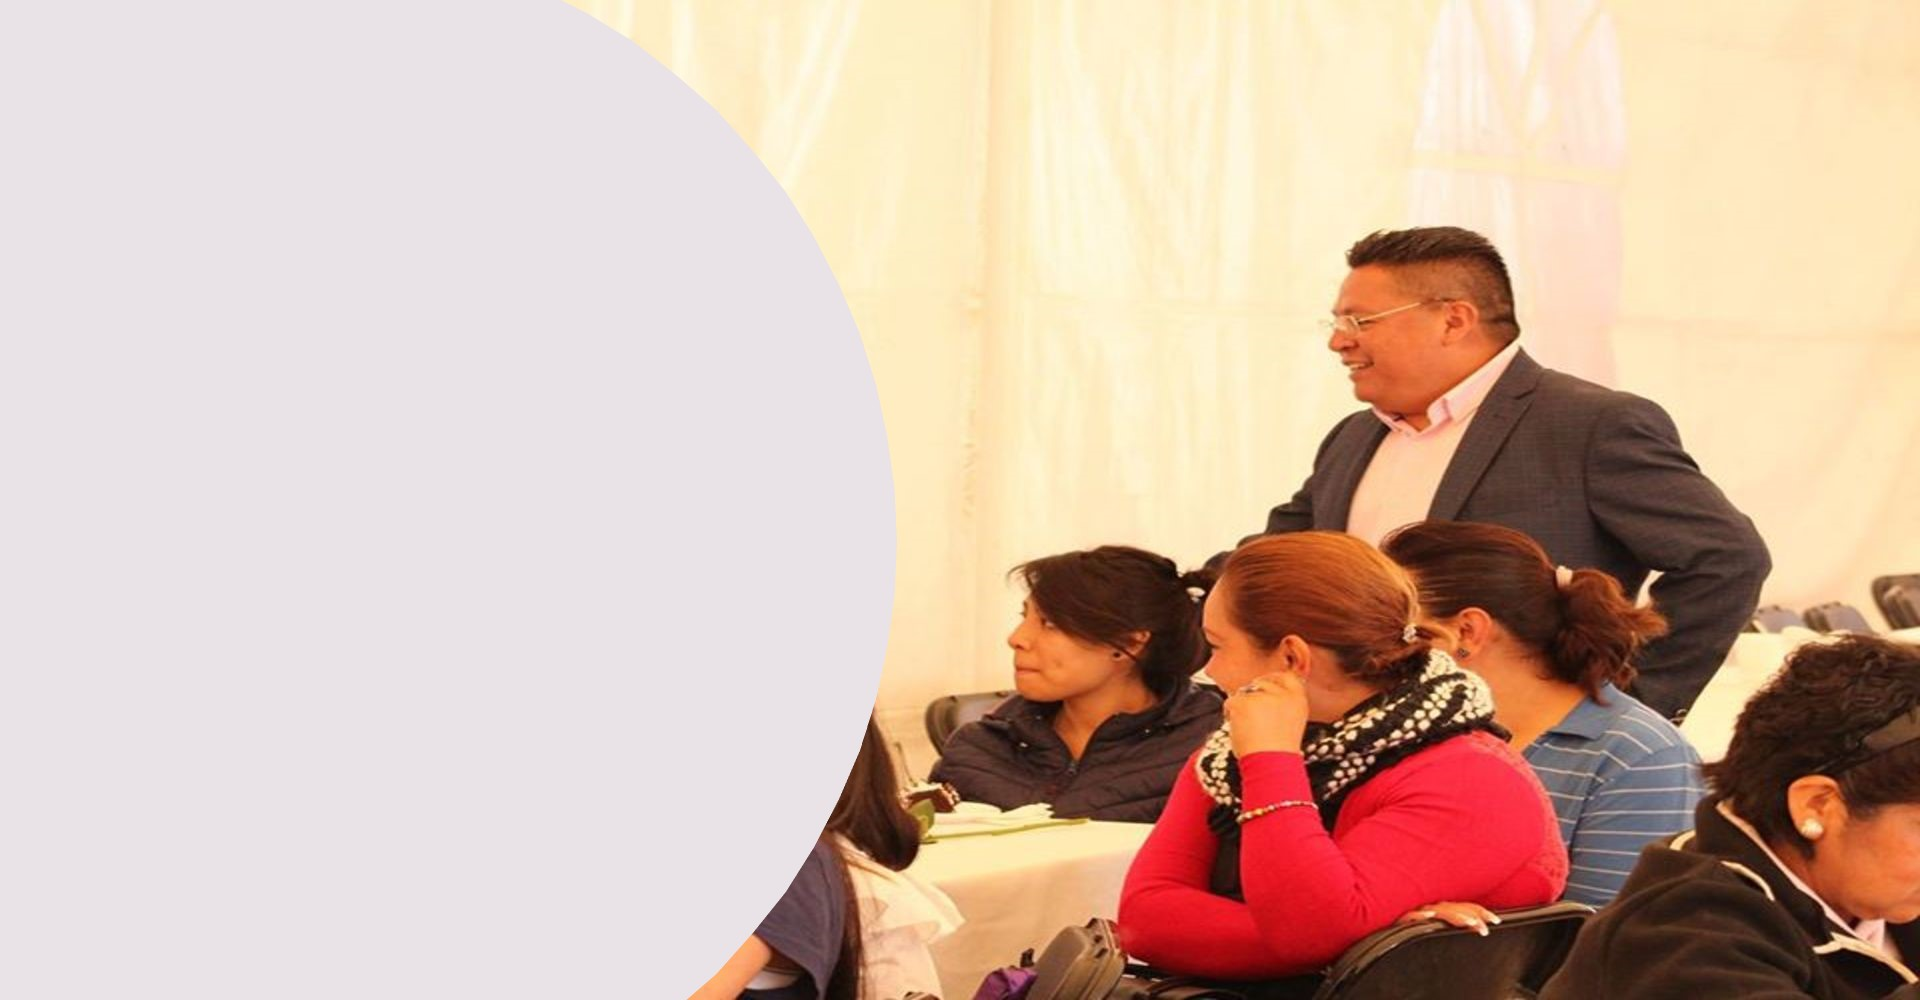
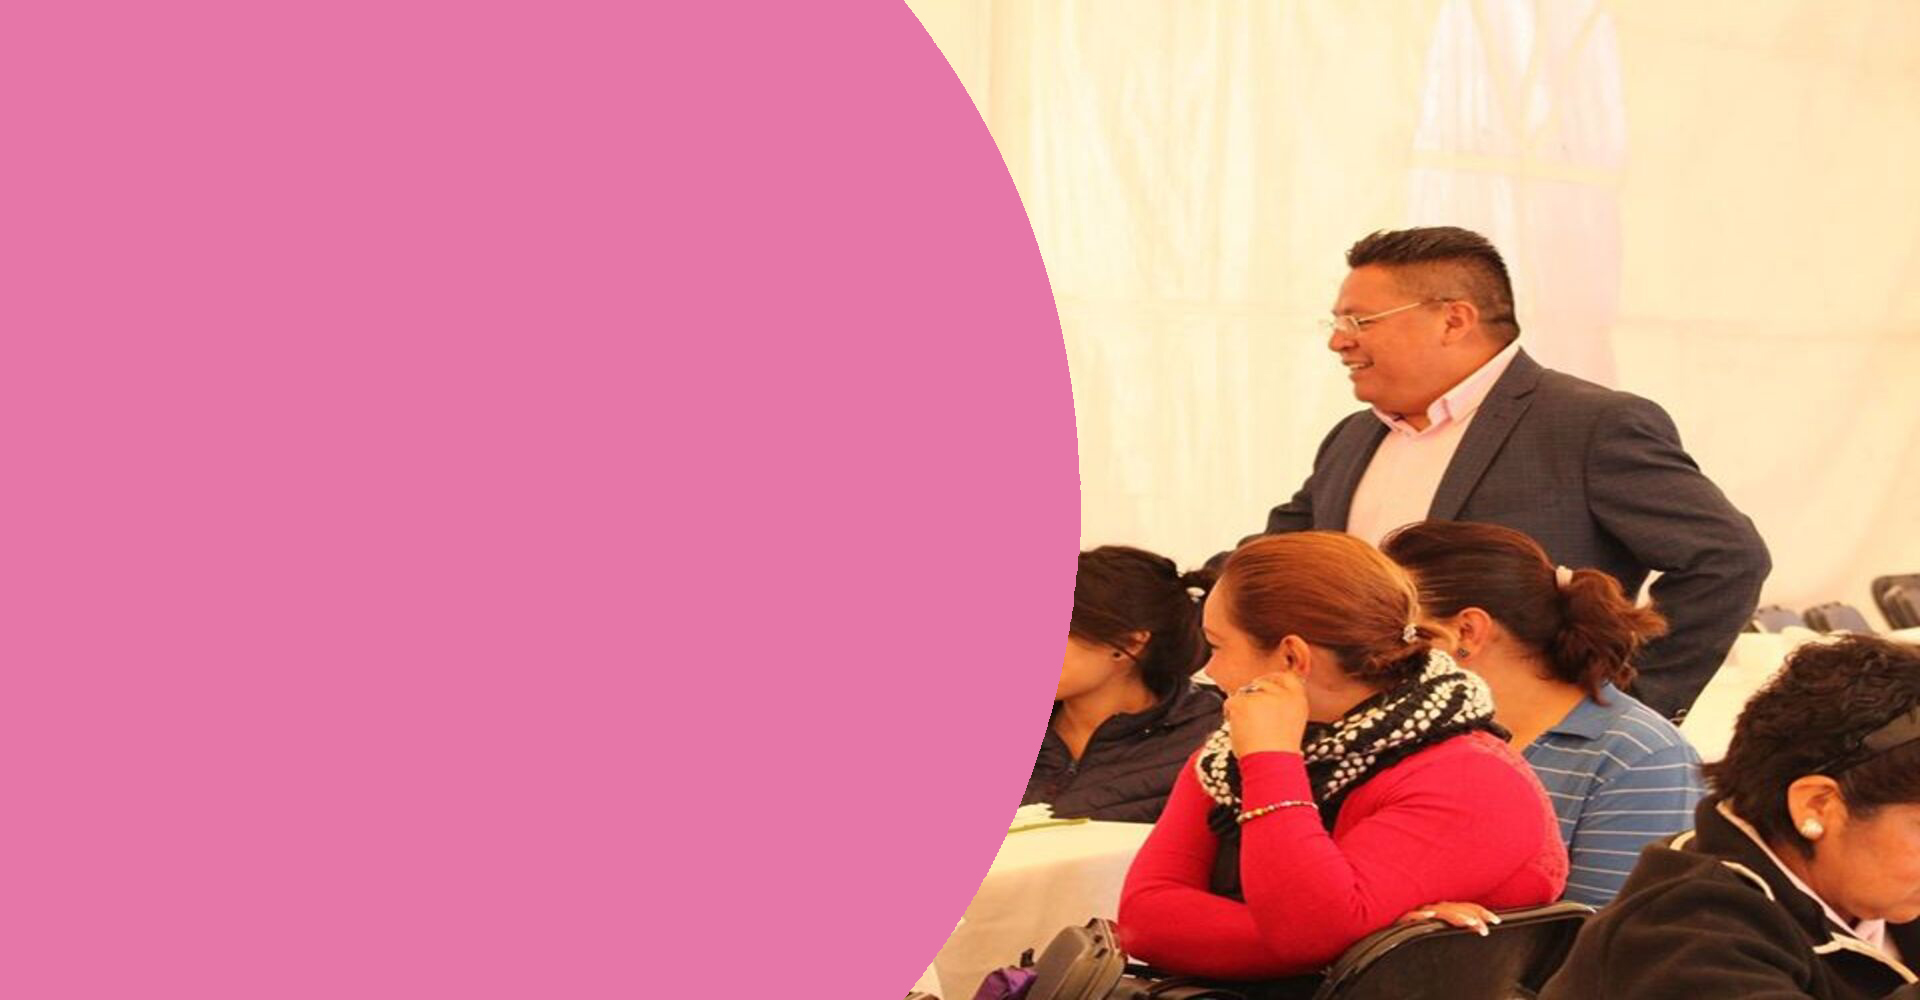
12 Marzo

diff --git a/css/estilos.css b/css/estilos.css
@@ -108,7 +108,7 @@ a:hover {
   }
 
   .navbar-nav {
-    background: #e9e3e7;
+    background: #e676a8;
     border-radius: 25px;
   }
 
@@ -378,7 +378,7 @@ a:hover {
     padding: 0rem;
     border-top-right-radius: 0px;
     border-bottom-right-radius: 0px;
-    padding-top: 50px;
+    padding-top: 100px;
     margin-bottom: 50px;
   }
 }

diff --git a/index.php b/index.php
@@ -39,8 +39,8 @@
 	<!--Navbar -->
   <nav class="navbar navbar-expand-md navbar-light  d-flex align-items-start" id="menu">
     <a class="navbar-brand" href="index.php" title="Inicio">
-      <img src="image/logo.svg" height="120" class="align-top desk" alt="asesores fiscales">
-      <img src="image/logo.svg" height="65" class="align-top movil" alt="asesores fiscales">
+      <img src="image/logo.svg" height="120" class="align-top desk" alt="asociación ciudadana">
+      <img src="image/logo.svg" height="65" class="align-top movil" alt="asociación ciudadana">
     </a>
     <button class="navbar-toggler" type="button" data-toggle="collapse" data-target="#collapsibleNavbar">
       <span class=""><i class="fa fa-bars fa-2x" aria-hidden="true"></i></span>
@@ -116,9 +116,9 @@
         <img src="image/mov/contabilidad.jpg" class="movil img-fluid carmov w-100" alt="asesoria contable" title="asesoria contable">
         <div class="carousel-captionInt">
           <h2 class="text-doradolight desk">SOCIALES</h2>
-          <P class="text-dorado desk">Es uno de los factores decisores para que una empresa sea exitosa, ¡define el rumbo de tu empresa!.</P>
+          <P class="text-dorado desk">Difusión y promoción a las principales fiestas patronales que destacan dentro del municipio.</P>
           <h2 class="text-bluedark movil">SOCIALES</h2>
-          <P class="text-bluedark movil">Es uno de los factores decisores para que una empresa sea exitosa, ¡define el rumbo de tu empresa!.</P>
+          <P class="text-bluedark movil">Difusión y promoción a las principales fiestas patronales que destacan dentro del municipio.</P>
           <div class="text-center pt-4">
             <a href="contabilidad.php"><button class="btn btn-primary btn-serv">Ver más</button></a>
           </div>
